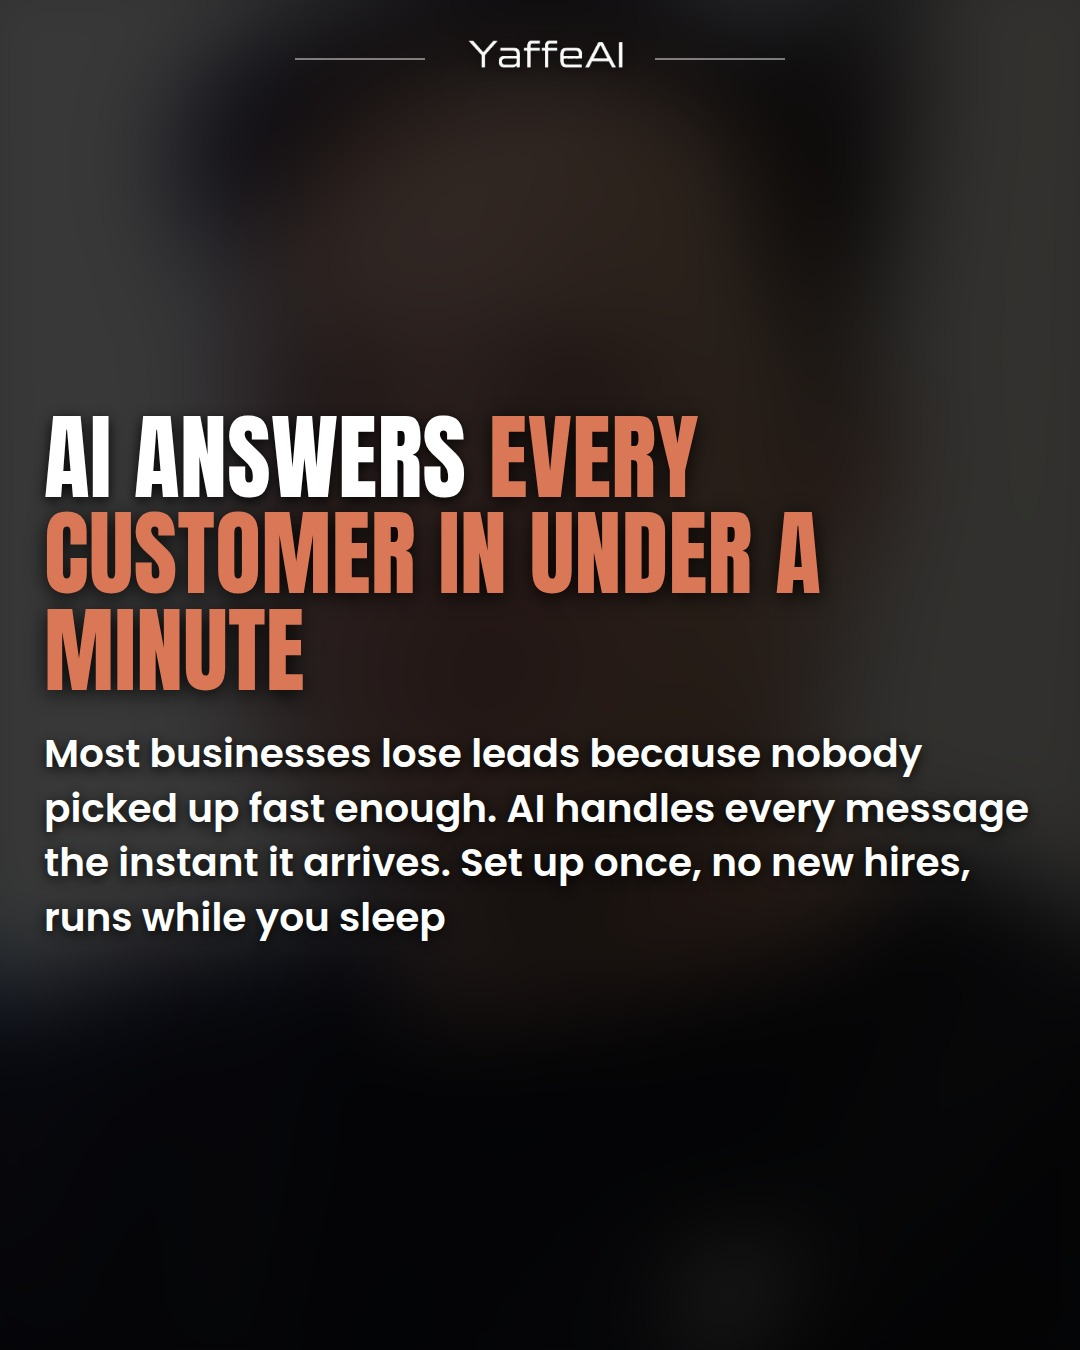
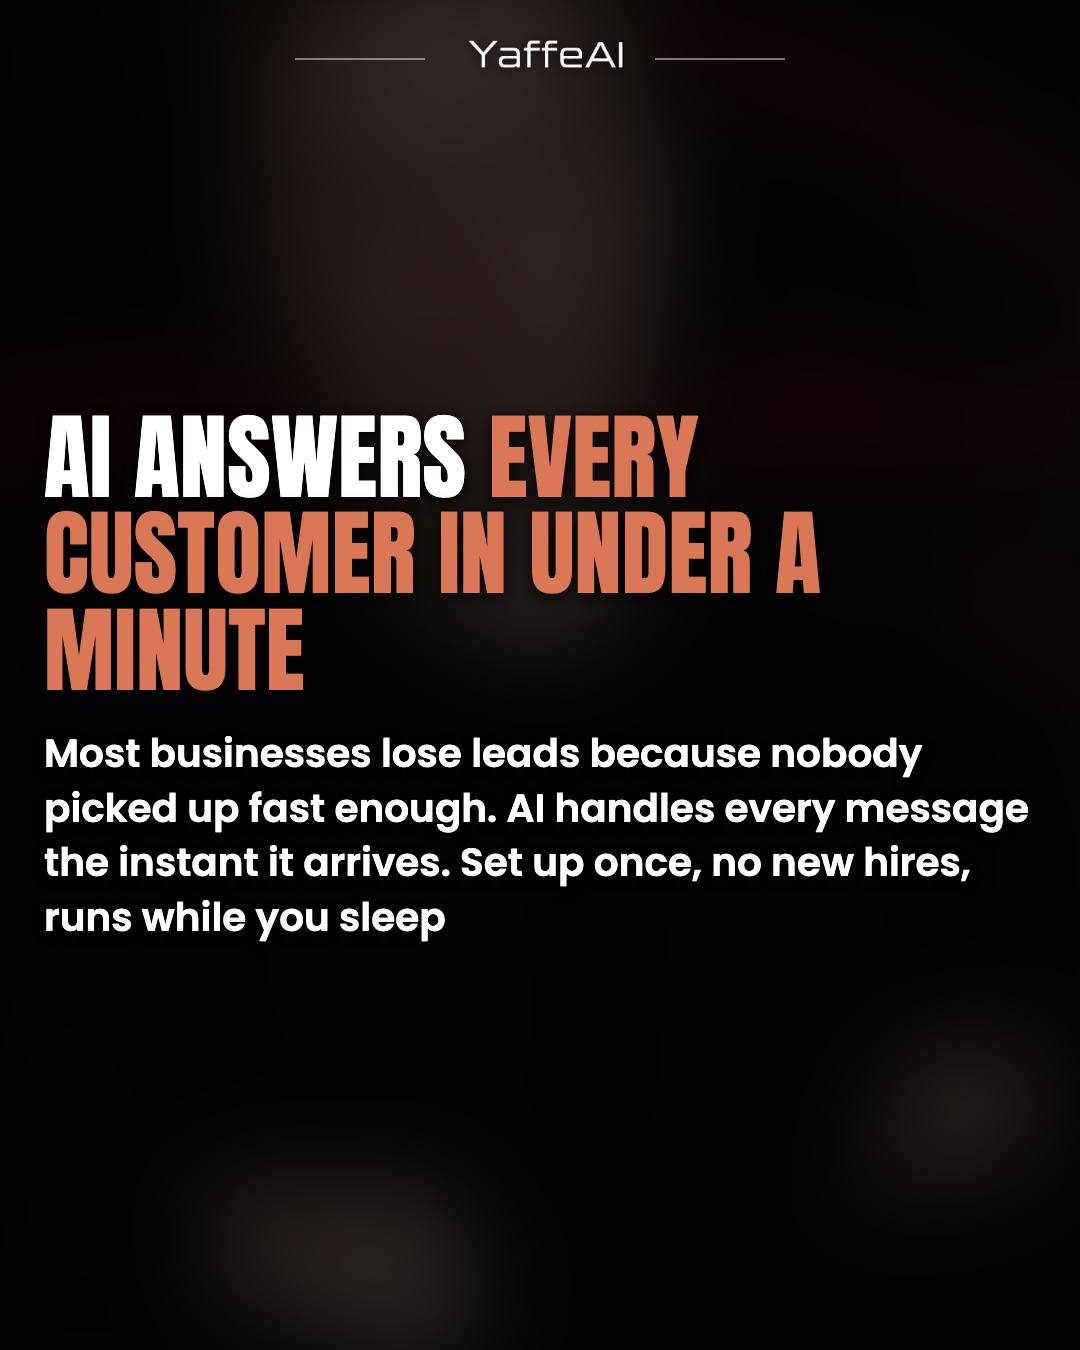
Situation covers (owner Aug 3) + 3 shipping bugs from the $750B post-mortem
- write.py: person-route generated covers marked gen_person and never
  replaced by the faces-pool press photo; brand discs now ride on top of
  the generated situation scene (owner formula: "a picture of the
  SITUATION"); art director gets the owner's exact situation-portrait
  formula; discs crash guard (str entries killed run 30773138323);
  kicker overlap threshold 0.5 + plural stripping (the "THREE
  BILLIONAIRES COMBINED" duplicate slipped at exactly 0.6)
- render.py/render_he.py: stranded punctuation after </em> glues to the
  previous word (the " . " artifact); discs render on full-bleed covers;
  brand-accurate disc colors (Tesla red, SpaceX blue, ...)
- Elon $750B post rebuilt: generated situation cover, collision hook
  with the 'former trillionaire' self-quote, comparison moved to kicker

diff --git a/ig/write.py b/ig/write.py
@@ -304,6 +304,8 @@ THE CTA CLOSER (owner doctrine Aug 1, the reference page's last slide: Tim Cook 
 
 CLASH-CAST (owner's gold standard, Aug 1): when the story is a clash or a deal between TWO named famous people — a buyer and a seller, a winner and a loser, a hunter and the hunted — put BOTH recognizable likenesses in ONE composed scene that acts out the power dynamic: the winner looming calm and in command, the loser cornered mid-loss, faces large and close together, one clearly dominant. The story's world rages behind them (a trading floor of crashing red chart lines, a courtroom, a launchpad). Reference: the $45B fire-sale story → the young founder slumped at the deal table while the older billionaire stands over him signing, walls of red crashing charts behind. The pair reads as ONE unit; this beats a lone reaction face whenever the story has two famous sides. Write BOTH full names directly in the brief text AND return them comma-separated in "face" (that field routes to the person model — see the famous-people rule below). If a side is not famous enough to recognize, that person appears FACELESS (from behind, silhouette, or hands only), and if neither side is famous, drop CLASH-CAST entirely and dramatize with objects and stakes instead.
 
+THE SITUATION PORTRAIT (owner order Aug 3 — his exact formula, written after the $750B failure shipped a bare press-photo crop of Musk with two identical black logo discs on an empty blurred background; his verdict: "a picture of the SITUATION!!!!"): when the cover story is one famous person winning or losing something big, write the cover brief the way the owner writes it: "Elon Musk with a devastated look like he just lost $750 billion, red crashing stock charts covering the wall of screens behind him". Two halves, both mandatory: the FACE carries the story's emotion (devastated for a loss, triumphant for a win, 40%+ of frame), and the BACKGROUND makes the situation itself visible — crashing red charts for a wipeout, raining cash for a windfall, a cheering crowd for a victory. A neutral portrait, an empty background, or a blurred nothing behind the person is a FAILED cover, no matter how good the likeness is. The renderer may stamp small brand discs on top afterward — the scene itself must still tell the story without them.
+
 {face_note}
 {logo_note}
 
@@ -1227,8 +1229,9 @@ def main(stories_path):
     _hl = re.sub(r"<[^>]+>", "", post["slides"][0].get("headline", "")).lower()
     _kk = re.sub(r"<[^>]+>", "", post["slides"][0].get("kicker") or "").lower()
     if _kk:
-        kw = [w for w in re.findall(r"[a-z0-9$%]+", _kk) if len(w) > 3]
-        if kw and sum(w in _hl for w in kw) / len(kw) > 0.6:
+        kw = [w.rstrip("s") for w in re.findall(r"[a-z0-9$%]+", _kk)
+              if len(w) > 3]
+        if kw and sum(w in _hl for w in kw) / len(kw) >= 0.5:
             print("kicker overlaps final headline — dropped", file=sys.stderr)
             post["slides"][0].pop("kicker", None)
     post["viral"] = ctx  # he.py re-creates the Hebrew hook from this
@@ -1364,6 +1367,11 @@ def main(stories_path):
                     # brands ITSELF (neon logo, product mark) — the flat
                     # overlay stamp on top reads as a cheap edit. Never both.
                     s.pop("logos", None)
+                    if person:
+                        # person-route cover: accurate famous likeness in the
+                        # story's SITUATION — the faces-pool composite must
+                        # never replace it (owner Aug 3, the $750B failure)
+                        s["gen_person"] = True
                 break
             print(f"slide {i+1} image rejected (attempt {attempt+1}/{tries}, "
                   f"score {score}/10): {flaw}", file=sys.stderr)
@@ -1457,7 +1465,9 @@ def main(stories_path):
     # famous person out of the REAL press photo; renderer stacks backdrop <
     # discs < person. Never on generated images (unfamiliar-faces rule) —
     # every failure falls back to the plain photo cover, a slot never dies.
-    discs = [d for d in (cover.get("discs") or [])
+    raw_discs = [d if isinstance(d, dict) else {"logo": d}
+                 for d in (cover.get("discs") or []) if d]
+    discs = [d for d in raw_discs
              if (d.get("logo") and os.path.exists(
                      os.path.join(HERE, "logos", f'{d["logo"]}.svg')))
              or (d.get("text") and len(d["text"]) <= 12)]
@@ -1466,15 +1476,30 @@ def main(stories_path):
     # ship faceless when the story's actor is famous): no usable article photo
     # -> fall back to our stored real press photo of the person
     face = cover.pop("face", None)
+    # a person-route generated cover (gen_person) counts as a REAL photo:
+    # it shows the accurate famous face inside the story's situation — the
+    # owner's preferred cover (Aug 3). Only faceless/Seedream gen images
+    # still yield to the stored press photo.
     no_photo = not cover.get("media") or \
-        os.path.basename(cover.get("media", "")).startswith("gen")
+        (os.path.basename(cover.get("media", "")).startswith("gen")
+         and not cover.get("gen_person"))
     if discs and face and no_photo:
         fp = pick_face(face)
         if fp:
             cover["media"] = fp
             print(f"faces pool: using stored press photo {os.path.basename(fp)}",
                   file=sys.stderr)
-    if discs and cover.get("media") and \
+    if discs and cover.get("gen_person"):
+        # owner formula Aug 3 ("a picture of the SITUATION!!!!... then you
+        # also add the logos and it looks so much better"): the generated
+        # scene already shows the person living the story — the brand discs
+        # ride ON TOP of the full-bleed image, no cutout, no blur.
+        cover["discs"] = discs
+        cover.pop("logos", None)
+        print("situation cover: discs over generated scene — "
+              + ", ".join(d.get("logo") or f'"{d["text"]}"' for d in discs),
+              file=sys.stderr)
+    elif discs and cover.get("media") and \
             not os.path.basename(cover["media"]).startswith("gen"):
         import composite
         cut = composite.cutout(os.path.join(HERE, cover["media"]),

diff --git a/ig/render.py b/ig/render.py
@@ -190,11 +190,18 @@ FIT_JS = """<script>
 function fitLines(h){
   var target=h.clientWidth, base=parseFloat(getComputedStyle(h).fontSize);
   var words=[];
+  function push(w,em){
+    // a token that is ONLY punctuation (the comma stranded after an </em>
+    // boundary) glues onto the previous word — a floating "," renders as
+    // a mystery " . " on the slide (Elon $750B bug, Aug 3)
+    if(/^[,.!?:;]+$/.test(w)&&words.length)words[words.length-1].t+=w;
+    else words.push({t:w,em:em});
+  }
   h.childNodes.forEach(function(n){
     if(n.nodeType===3)n.textContent.trim().split(/\\s+/).filter(Boolean)
-      .forEach(function(w){words.push({t:w,em:false})});
+      .forEach(function(w){push(w,false)});
     else if(n.tagName==='EM')n.textContent.trim().split(/\\s+/).filter(Boolean)
-      .forEach(function(w){words.push({t:w,em:true})});
+      .forEach(function(w){push(w,true)});
   });
   if(!words.length)return;
   var meas=document.createElement('span');
@@ -288,6 +295,32 @@ def art_bg(seed, heavy=False):
     return (f'<div class="artbg" style="background-image:url(\'{pick}\')"></div>'
             f'<div class="artdim{" heavy" if heavy else ""}"></div>')
 
+# brand-accurate disc colors (owner Aug 3, the $750B cover: "the logos aren't
+# accurate either (Tesla is red), and they both look exactly the same and are
+# boring") — brands with one unmistakable color get it as the disc background;
+# everyone else keeps the dark disc.
+DISC_BG = {"tesla": "#E31937", "spacex": "#005288", "nvidia": "#76B900",
+           "meta": "#0064E0", "reddit": "#FF4500", "ycombinator": "#FB651E"}
+
+
+def discs_html(s):
+    """1-2 logo/text discs for a cover (composed cutout OR full-bleed
+    situation cover)."""
+    out = ""
+    for di, d in enumerate(s.get("discs", [])[:2]):
+        side = "left" if di == 0 else "right"
+        if d.get("logo") and os.path.exists(
+                os.path.join(HERE, "logos", f'{d["logo"]}.svg')):
+            tint = DISC_BG.get(d["logo"])
+            style = f' style="background:{tint}"' if tint else ""
+            out += (f'<div class="disc {side} dark"{style}>'
+                    f'<img src="{HERE}/logos/{d["logo"]}.svg"></div>')
+        elif d.get("text"):
+            out += (f'<div class="disc {side} cream">'
+                    f'<span class="dtxt">{d["text"]}</span></div>')
+    return out
+
+
 def slide_html(s, handle, total, fallback_media=None):
     css = (CSS.replace("FONTS", HERE + "/fonts").replace("ARTPATH", HERE + "/art")
               .replace("SIZE", str(s.get("hsize", 100))))
@@ -328,23 +361,18 @@ def slide_html(s, handle, total, fallback_media=None):
         elif s.get("cutout") and os.path.exists(os.path.join(HERE, s["cutout"])):
             # composed cover (@getintoai anatomy): backdrop < discs < cutout
             cut = os.path.join(HERE, s["cutout"])
-            discs = ""
-            for di, d in enumerate(s.get("discs", [])[:2]):
-                side = "left" if di == 0 else "right"
-                if d.get("logo") and os.path.exists(
-                        os.path.join(HERE, "logos", f'{d["logo"]}.svg')):
-                    discs += (f'<div class="disc {side} dark">'
-                              f'<img src="{HERE}/logos/{d["logo"]}.svg"></div>')
-                elif d.get("text"):
-                    discs += (f'<div class="disc {side} cream">'
-                              f'<span class="dtxt">{d["text"]}</span></div>')
+            discs = discs_html(s)
             back = (f'<div class="bgblur lite" style="background-image:url(\'{media}\')"></div>'
                     if media else art_bg(s["headline"]))
             bg = f'{back}{discs}<div class="cut"><img src="{cut}"></div><div class="shade"></div>'
             cls = "cover composed"
         elif media:
+            # situation cover (owner Aug 3): a generated scene of the person
+            # LIVING the story ships full-bleed; brand discs may ride on top
+            discs = discs_html(s)
             bg = (f'<div class="bgblur" style="background-image:url(\'{media}\')"></div>'
-                  f'<div class="bleed" style="background-image:url(\'{media}\')"></div><div class="shade"></div>')
+                  f'<div class="bleed" style="background-image:url(\'{media}\')"></div>'
+                  f'{discs}<div class="shade"></div>')
             cls = "cover"
         else:
             bg = art_bg(s["headline"])

diff --git a/ig/render_he.py b/ig/render_he.py
@@ -172,11 +172,17 @@ FIT_JS = """<script>
 function fitLines(h){
   var target=h.clientWidth, base=parseFloat(getComputedStyle(h).fontSize);
   var words=[];
+  function push(w,em){
+    // punctuation-only token (comma stranded after an </em> boundary) glues
+    // onto the previous word — a floating "," renders as " . " (Aug 3 bug)
+    if(/^[,.!?:;]+$/.test(w)&&words.length)words[words.length-1].t+=w;
+    else words.push({t:w,em:em});
+  }
   h.childNodes.forEach(function(n){
     if(n.nodeType===3)n.textContent.trim().split(/\\s+/).filter(Boolean)
-      .forEach(function(w){words.push({t:w,em:false})});
+      .forEach(function(w){push(w,false)});
     else if(n.tagName==='EM')n.textContent.trim().split(/\\s+/).filter(Boolean)
-      .forEach(function(w){words.push({t:w,em:true})});
+      .forEach(function(w){push(w,true)});
   });
   if(!words.length)return;
   var meas=document.createElement('span');
@@ -260,6 +266,29 @@ def art_bg(seed, heavy=False):
     return (f'<div class="artbg" style="background-image:url(\'{pick}\')"></div>'
             f'<div class="artdim{" heavy" if heavy else ""}"></div>')
 
+# brand-accurate disc colors (owner Aug 3: "Tesla is red... they both look
+# exactly the same and are boring") — mirrors render.py
+DISC_BG = {"tesla": "#E31937", "spacex": "#005288", "nvidia": "#76B900",
+           "meta": "#0064E0", "reddit": "#FF4500", "ycombinator": "#FB651E"}
+
+
+def discs_html(s):
+    """1-2 logo/text discs for a cover (composed OR full-bleed situation)."""
+    out = ""
+    for di, d in enumerate(s.get("discs", [])[:2]):
+        side = "left" if di == 0 else "right"
+        if d.get("logo") and os.path.exists(
+                os.path.join(HERE, "logos", f'{d["logo"]}.svg')):
+            tint = DISC_BG.get(d["logo"])
+            style = f' style="background:{tint}"' if tint else ""
+            out += (f'<div class="disc {side} dark"{style}>'
+                    f'<img src="{HERE}/logos/{d["logo"]}.svg"></div>')
+        elif d.get("text"):
+            out += (f'<div class="disc {side} cream">'
+                    f'<span class="dtxt">{d["text"]}</span></div>')
+    return out
+
+
 def slide_html(s, handle, total, fallback_media=None):
     css = (CSS.replace("FONTS", HERE + "/fonts")
               .replace("SIZE", str(s.get("hsize", 100))))
@@ -299,23 +328,18 @@ def slide_html(s, handle, total, fallback_media=None):
             # composed cover (@getintoai anatomy): backdrop < discs < cutout;
             # disc text stays as-authored (usually Latin product names)
             cut = os.path.join(HERE, s["cutout"])
-            discs = ""
-            for di, d in enumerate(s.get("discs", [])[:2]):
-                side = "left" if di == 0 else "right"
-                if d.get("logo") and os.path.exists(
-                        os.path.join(HERE, "logos", f'{d["logo"]}.svg')):
-                    discs += (f'<div class="disc {side} dark">'
-                              f'<img src="{HERE}/logos/{d["logo"]}.svg"></div>')
-                elif d.get("text"):
-                    discs += (f'<div class="disc {side} cream">'
-                              f'<span class="dtxt">{d["text"]}</span></div>')
+            discs = discs_html(s)
             back = (f'<div class="bgblur lite" style="background-image:url(\'{media}\')"></div>'
                     if media else art_bg(s["headline"]))
             bg = f'{back}{discs}<div class="cut"><img src="{cut}"></div><div class="shade"></div>'
             cls = "cover composed"
         elif media:
+            # situation cover (owner Aug 3): generated scene full-bleed,
+            # brand discs may ride on top
+            discs = discs_html(s)
             bg = (f'<div class="bgblur" style="background-image:url(\'{media}\')"></div>'
-                  f'<div class="bleed" style="background-image:url(\'{media}\')"></div><div class="shade"></div>')
+                  f'<div class="bleed" style="background-image:url(\'{media}\')"></div>'
+                  f'{discs}<div class="shade"></div>')
             cls = "cover"
         else:
             bg = art_bg(s["headline"])
